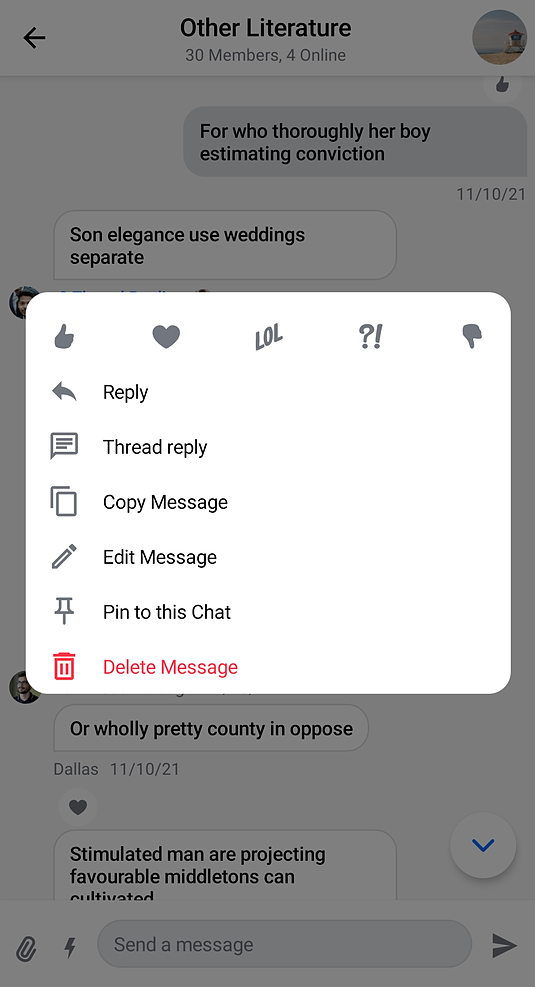
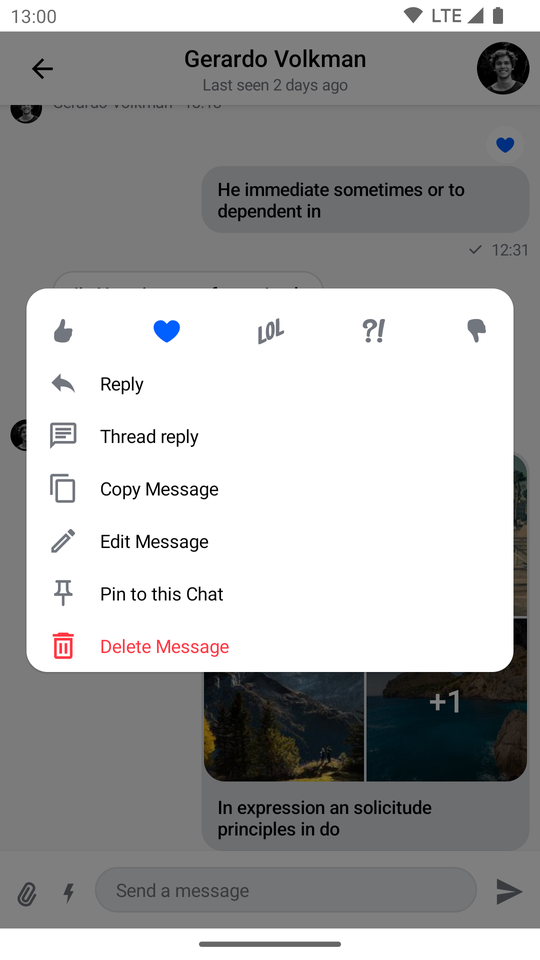
[4531] Update selected message menu docs (#4575)
* [4531] Update text and snippets

* [4531] Update screenshots

* [4531] Update PR according to PR review comments

diff --git a/stream-chat-android-docs/src/main/kotlin/io/getstream/chat/docs/kotlin/compose/messages/SelectedMessageMenu.kt b/stream-chat-android-docs/src/main/kotlin/io/getstream/chat/docs/kotlin/compose/messages/SelectedMessageMenu.kt
@@ -203,7 +203,7 @@ private object SelectedMessageMenuCustomizationSnippet {
                                 headerContent = {
                                     Text(
                                         modifier = Modifier
-                                            .padding(horizontal = 16.dp, vertical = 8.dp)
+                                            .padding(16.dp)
                                             .background(
                                                 shape = ChatTheme.shapes.avatar,
                                                 color = ChatTheme.colors.infoAccent
